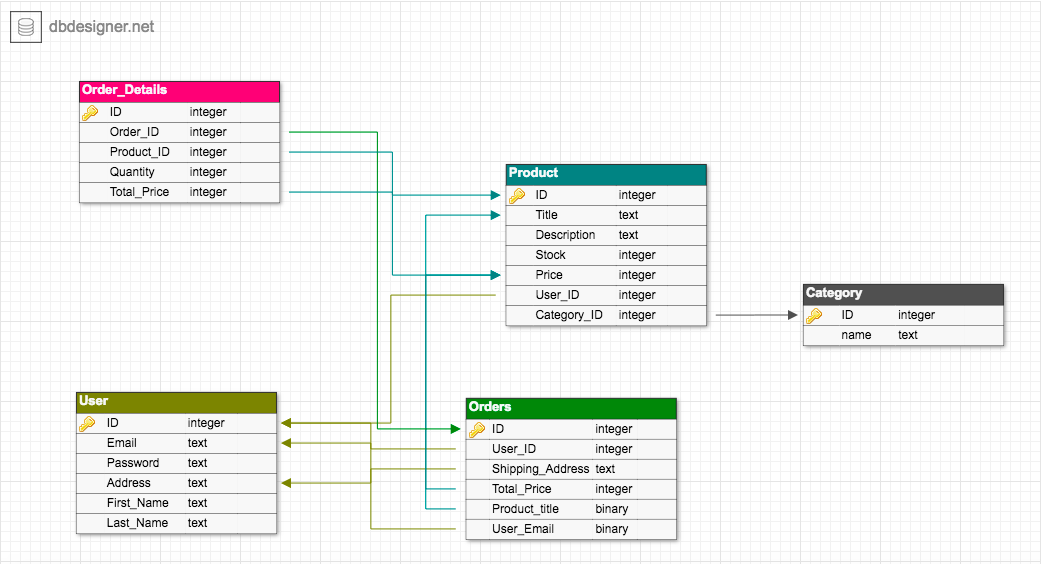
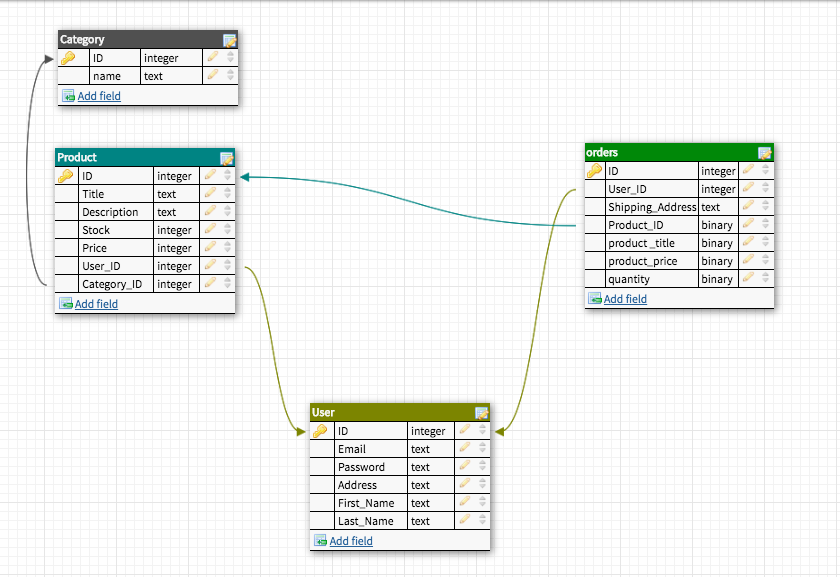
implemented order model and added relationships in product and user models

Changed region(s): [[0.0, 0.0, 1.0, 0.9645], [0.65, 0.844, 0.681, 0.8741]]

diff --git a/app/assets/stylesheets/orders.scss b/app/assets/stylesheets/orders.scss
@@ -1,0 +1,3 @@
+// Place all the styles related to the orders controller here.
+// They will automatically be included in application.css.
+// You can use Sass (SCSS) here: http://sass-lang.com/

diff --git a/app/controllers/orders_controller.rb b/app/controllers/orders_controller.rb
@@ -1,0 +1,74 @@
+class OrdersController < ApplicationController
+  before_action :set_order, only: [:show, :edit, :update, :destroy]
+
+  # GET /orders
+  # GET /orders.json
+  def index
+    @orders = Order.all
+  end
+
+  # GET /orders/1
+  # GET /orders/1.json
+  def show
+  end
+
+  # GET /orders/new
+  def new
+    @order = Order.new
+  end
+
+  # GET /orders/1/edit
+  def edit
+  end
+
+  # POST /orders
+  # POST /orders.json
+  def create
+    @order = Order.new(order_params)
+
+    respond_to do |format|
+      if @order.save
+        format.html { redirect_to @order, notice: 'Order was successfully created.' }
+        format.json { render :show, status: :created, location: @order }
+      else
+        format.html { render :new }
+        format.json { render json: @order.errors, status: :unprocessable_entity }
+      end
+    end
+  end
+
+  # PATCH/PUT /orders/1
+  # PATCH/PUT /orders/1.json
+  def update
+    respond_to do |format|
+      if @order.update(order_params)
+        format.html { redirect_to @order, notice: 'Order was successfully updated.' }
+        format.json { render :show, status: :ok, location: @order }
+      else
+        format.html { render :edit }
+        format.json { render json: @order.errors, status: :unprocessable_entity }
+      end
+    end
+  end
+
+  # DELETE /orders/1
+  # DELETE /orders/1.json
+  def destroy
+    @order.destroy
+    respond_to do |format|
+      format.html { redirect_to orders_url, notice: 'Order was successfully destroyed.' }
+      format.json { head :no_content }
+    end
+  end
+
+  private
+    # Use callbacks to share common setup or constraints between actions.
+    def set_order
+      @order = Order.find(params[:id])
+    end
+
+    # Never trust parameters from the scary internet, only allow the white list through.
+    def order_params
+      params.require(:order).permit(:user_id, :shipping_address, :product_id, :product_title, :product_price, :quantity)
+    end
+end

diff --git a/test/system/orders_test.rb b/test/system/orders_test.rb
@@ -1,0 +1,53 @@
+require "application_system_test_case"
+
+class OrdersTest < ApplicationSystemTestCase
+  setup do
+    @order = orders(:one)
+  end
+
+  test "visiting the index" do
+    visit orders_url
+    assert_selector "h1", text: "Orders"
+  end
+
+  test "creating a Order" do
+    visit orders_url
+    click_on "New Order"
+
+    fill_in "Product", with: @order.product_id
+    fill_in "Product Price", with: @order.product_price
+    fill_in "Product Title", with: @order.product_title
+    fill_in "Quantity", with: @order.quantity
+    fill_in "Shipping Address", with: @order.shipping_address
+    fill_in "User", with: @order.user_id
+    click_on "Create Order"
+
+    assert_text "Order was successfully created"
+    click_on "Back"
+  end
+
+  test "updating a Order" do
+    visit orders_url
+    click_on "Edit", match: :first
+
+    fill_in "Product", with: @order.product_id
+    fill_in "Product Price", with: @order.product_price
+    fill_in "Product Title", with: @order.product_title
+    fill_in "Quantity", with: @order.quantity
+    fill_in "Shipping Address", with: @order.shipping_address
+    fill_in "User", with: @order.user_id
+    click_on "Update Order"
+
+    assert_text "Order was successfully updated"
+    click_on "Back"
+  end
+
+  test "destroying a Order" do
+    visit orders_url
+    page.accept_confirm do
+      click_on "Destroy", match: :first
+    end
+
+    assert_text "Order was successfully destroyed"
+  end
+end

diff --git a/test/controllers/orders_controller_test.rb b/test/controllers/orders_controller_test.rb
@@ -1,0 +1,48 @@
+require 'test_helper'
+
+class OrdersControllerTest < ActionDispatch::IntegrationTest
+  setup do
+    @order = orders(:one)
+  end
+
+  test "should get index" do
+    get orders_url
+    assert_response :success
+  end
+
+  test "should get new" do
+    get new_order_url
+    assert_response :success
+  end
+
+  test "should create order" do
+    assert_difference('Order.count') do
+      post orders_url, params: { order: { product_id: @order.product_id, product_price: @order.product_price, product_title: @order.product_title, quantity: @order.quantity, shipping_address: @order.shipping_address, user_id: @order.user_id } }
+    end
+
+    assert_redirected_to order_url(Order.last)
+  end
+
+  test "should show order" do
+    get order_url(@order)
+    assert_response :success
+  end
+
+  test "should get edit" do
+    get edit_order_url(@order)
+    assert_response :success
+  end
+
+  test "should update order" do
+    patch order_url(@order), params: { order: { product_id: @order.product_id, product_price: @order.product_price, product_title: @order.product_title, quantity: @order.quantity, shipping_address: @order.shipping_address, user_id: @order.user_id } }
+    assert_redirected_to order_url(@order)
+  end
+
+  test "should destroy order" do
+    assert_difference('Order.count', -1) do
+      delete order_url(@order)
+    end
+
+    assert_redirected_to orders_url
+  end
+end

diff --git a/db/schema.rb b/db/schema.rb
@@ -10,7 +10,7 @@
 #
 # It's strongly recommended that you check this file into your version control system.
 
-ActiveRecord::Schema.define(version: 2018_10_30_012328) do
+ActiveRecord::Schema.define(version: 2018_10_30_045941) do
 
   # These are extensions that must be enabled in order to support this database
   enable_extension "plpgsql"
@@ -42,6 +42,19 @@ ActiveRecord::Schema.define(version: 2018_10_30_012328) do
     t.datetime "updated_at", null: false
   end
 
+  create_table "orders", force: :cascade do |t|
+    t.bigint "user_id"
+    t.string "shipping_address"
+    t.bigint "product_id"
+    t.string "product_title"
+    t.string "product_price"
+    t.string "quantity"
+    t.datetime "created_at", null: false
+    t.datetime "updated_at", null: false
+    t.index ["product_id"], name: "index_orders_on_product_id"
+    t.index ["user_id"], name: "index_orders_on_user_id"
+  end
+
   create_table "products", force: :cascade do |t|
     t.string "title"
     t.integer "price"
@@ -67,6 +80,8 @@ ActiveRecord::Schema.define(version: 2018_10_30_012328) do
     t.index ["reset_password_token"], name: "index_users_on_reset_password_token", unique: true
   end
 
+  add_foreign_key "orders", "products"
+  add_foreign_key "orders", "users"
   add_foreign_key "products", "categories"
   add_foreign_key "products", "users"
 end

diff --git a/db/migrate/20181030045941_create_orders.rb b/db/migrate/20181030045941_create_orders.rb
@@ -1,0 +1,14 @@
+class CreateOrders < ActiveRecord::Migration[5.2]
+  def change
+    create_table :orders do |t|
+      t.references :user, foreign_key: true
+      t.string :shipping_address
+      t.references :product, foreign_key: true
+      t.string :product_title
+      t.string :product_price
+      t.string :quantity
+
+      t.timestamps
+    end
+  end
+end

diff --git a/app/models/user.rb b/app/models/user.rb
@@ -3,4 +3,6 @@ class User < ApplicationRecord
   # :confirmable, :lockable, :timeoutable, :trackable and :omniauthable
   devise :database_authenticatable, :registerable,
          :recoverable, :rememberable, :validatable
+  has_many :products
+  has_many :orders
 end

diff --git a/test/models/order_test.rb b/test/models/order_test.rb
@@ -1,0 +1,7 @@
+require 'test_helper'
+
+class OrderTest < ActiveSupport::TestCase
+  # test "the truth" do
+  #   assert true
+  # end
+end

diff --git a/config/routes.rb b/config/routes.rb
@@ -1,4 +1,5 @@
 Rails.application.routes.draw do
+  resources :orders
   resources :categories
   devise_for :users
   resources :products

diff --git a/app/models/order.rb b/app/models/order.rb
@@ -1,0 +1,4 @@
+class Order < ApplicationRecord
+  belongs_to :user
+  belongs_to :product
+end

diff --git a/app/helpers/orders_helper.rb b/app/helpers/orders_helper.rb
@@ -1,0 +1,2 @@
+module OrdersHelper
+end
